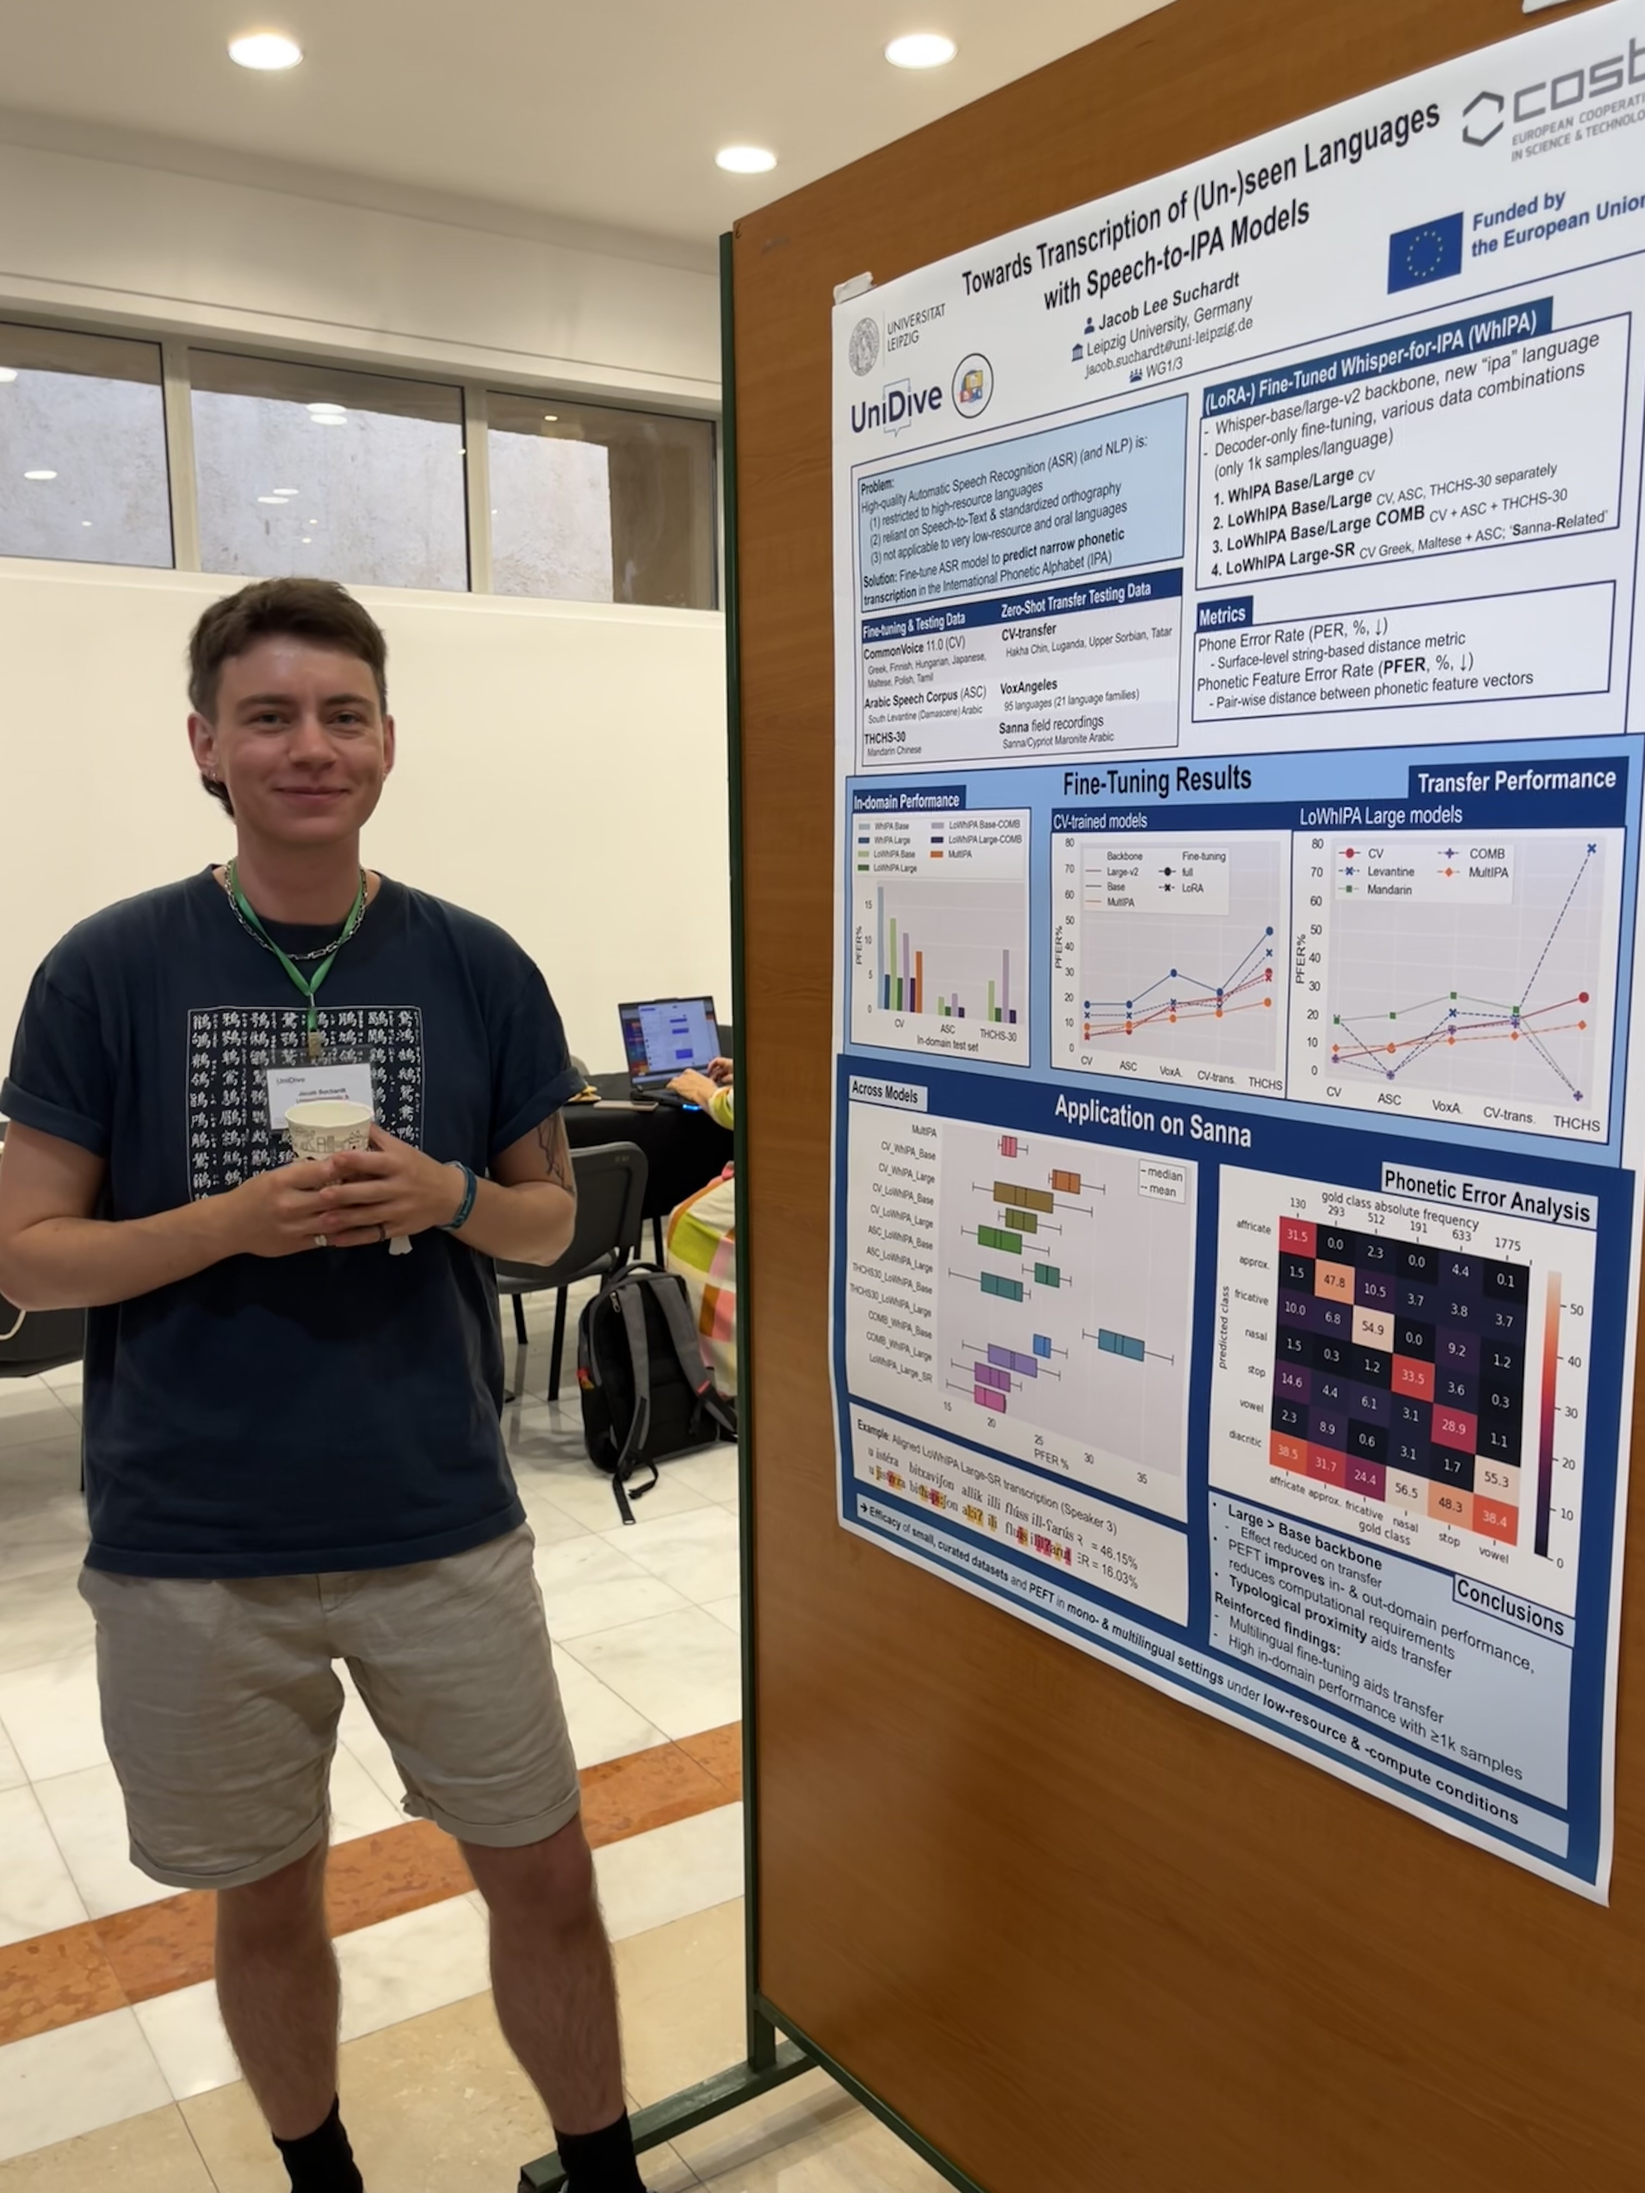
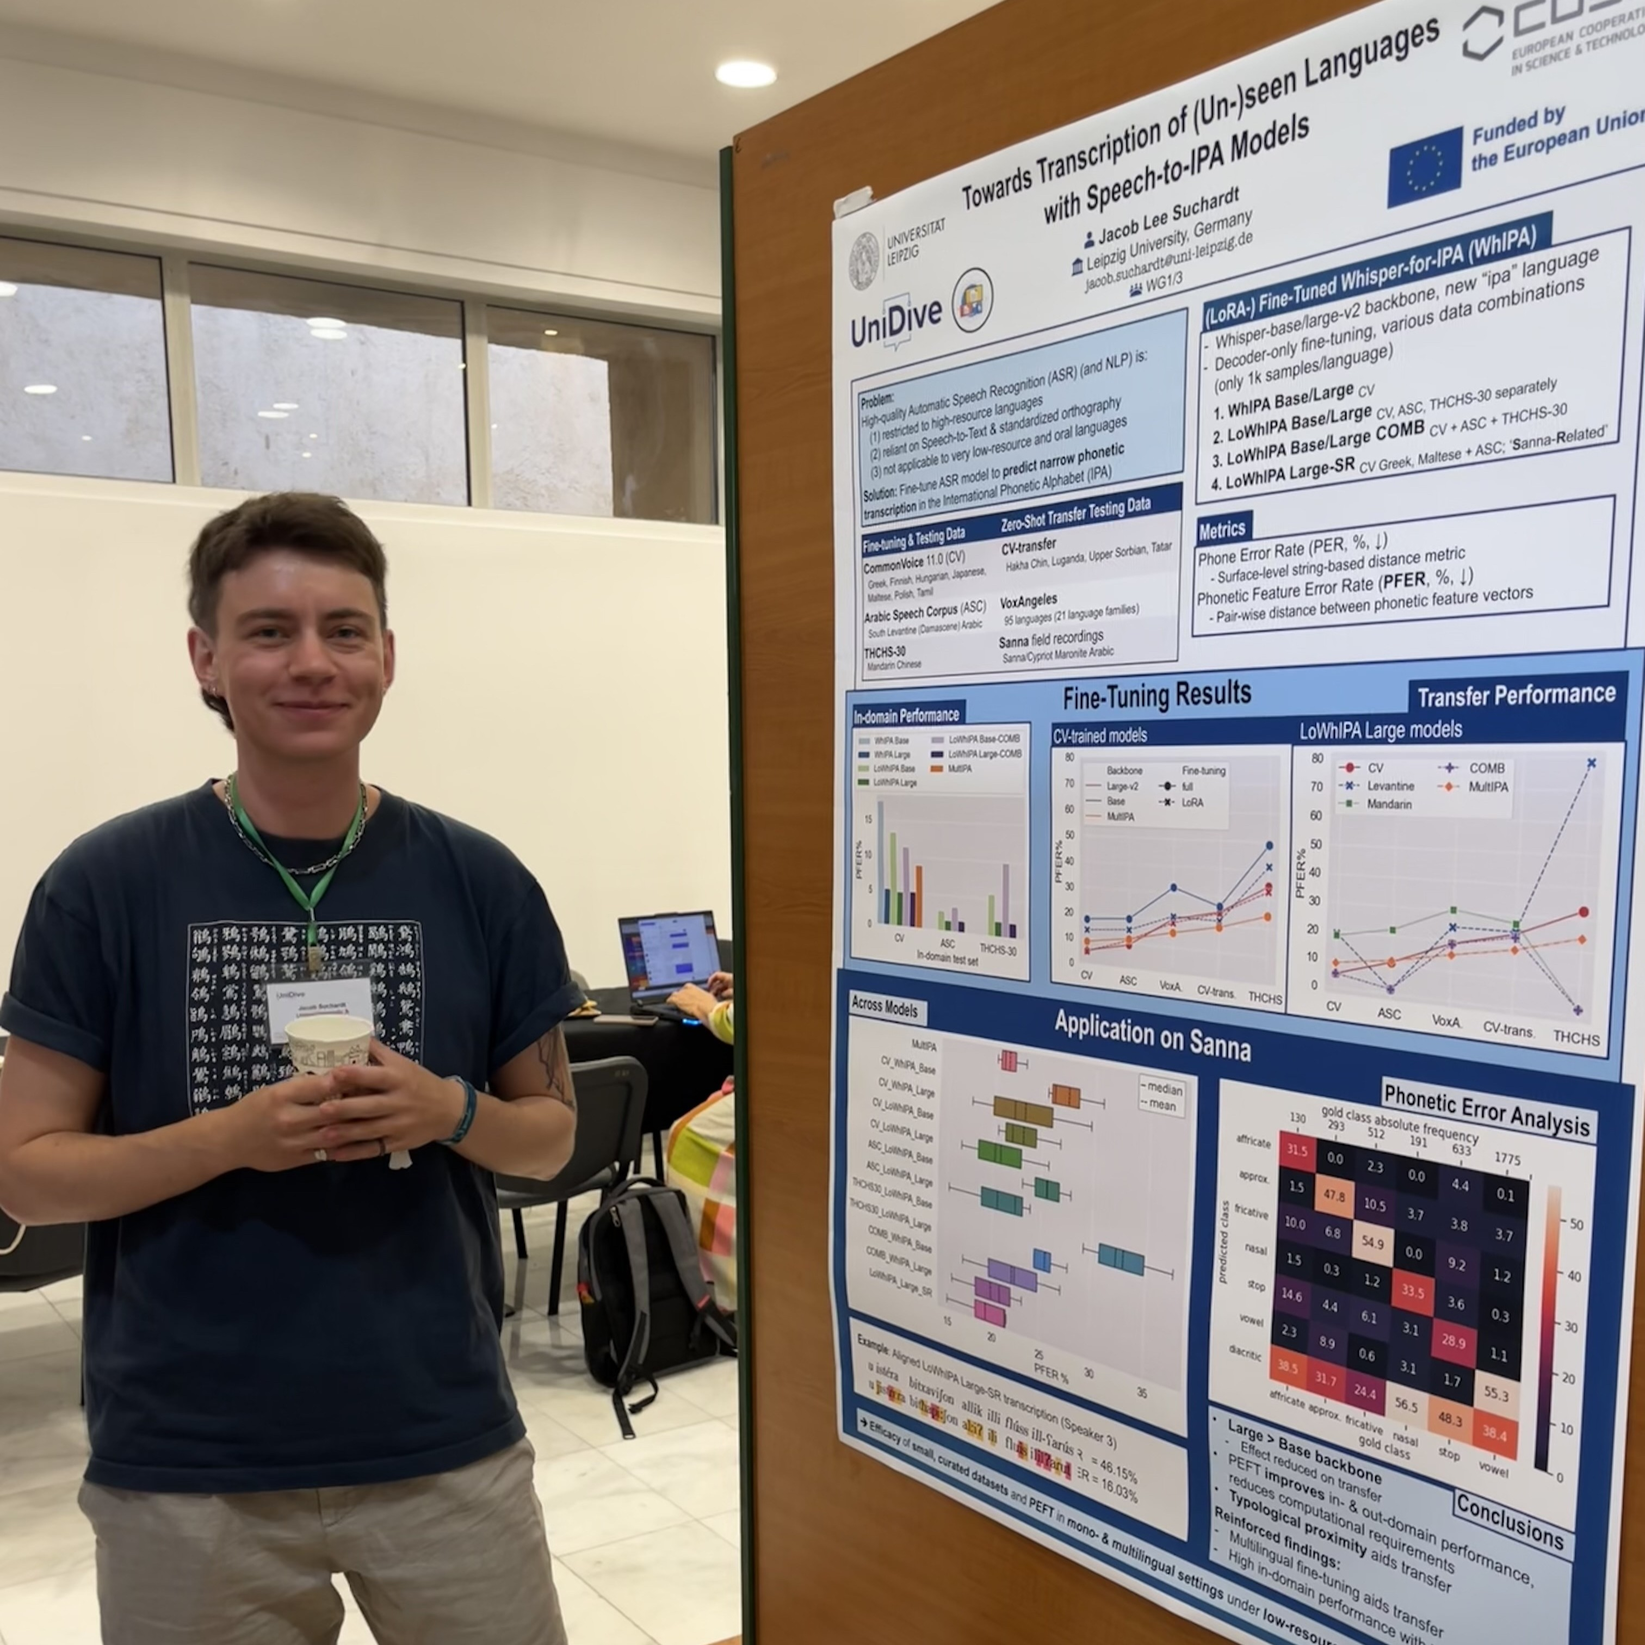
Show news pictures on the landing page and frame all photos with corner brackets

diff --git a/_includes/page-styles.html b/_includes/page-styles.html
@@ -97,6 +97,38 @@
 
   .lion-list li a:hover { opacity: 0.7; }
 
+  /* ── Photo frame ──
+     Corner brackets matching the group photo on the home page and the PI photo
+     on the team page, scaled down for thumbnails. Wrap an <img> in a div with
+     this class; the brackets sit just outside the image's edges. */
+  .lion-photo-frame {
+    position: relative;
+    display: block;
+  }
+
+  .lion-photo-frame::before,
+  .lion-photo-frame::after {
+    content: '';
+    position: absolute;
+    width: 18px;
+    height: 18px;
+    z-index: 1;
+  }
+
+  .lion-photo-frame::before {
+    top: -5px;
+    left: -5px;
+    border-top: 2px solid var(--lion-dark);
+    border-left: 2px solid var(--lion-dark);
+  }
+
+  .lion-photo-frame::after {
+    bottom: -5px;
+    right: -5px;
+    border-bottom: 2px solid var(--lion-dark);
+    border-right: 2px solid var(--lion-dark);
+  }
+
   .lion-h2 {
     font-family: var(--lion-heading-font);
     font-size: 1.6rem;

diff --git a/_pages/events.md b/_pages/events.md
@@ -189,9 +189,11 @@ permalink: /events/
       <span class="event-location">Paulinum, Room P905</span>
     </div>
     <div class="event-main">
-      <img class="event-speaker-photo"
-           src="{{ '/assets/img/speakers/anja_reusch.png' | relative_url }}"
-           alt="Anja Reusch">
+      <div class="lion-photo-frame">
+        <img class="event-speaker-photo"
+             src="{{ '/assets/img/speakers/anja_reusch.png' | relative_url }}"
+             alt="Anja Reusch">
+      </div>
       <div class="event-content">
         <h2 class="event-title">Interpretability for Improving Retrieval Models</h2>
         <p class="event-speaker">Dr. <a href="https://anja.re/" target="_blank" rel="noopener">Anja Reusch</a> — Technion</p>
@@ -219,9 +221,11 @@ permalink: /events/
       <span class="event-location">Paulinum, Room P905</span>
     </div>
     <div class="event-main">
-      <img class="event-speaker-photo"
-           src="{{ '/assets/img/speakers/bastian_bunzeck.png' | relative_url }}"
-           alt="Bastian Bunzeck">
+      <div class="lion-photo-frame">
+        <img class="event-speaker-photo"
+             src="{{ '/assets/img/speakers/bastian_bunzeck.png' | relative_url }}"
+             alt="Bastian Bunzeck">
+      </div>
       <div class="event-content">
         <h2 class="event-title">LLMs Are Not Usage-Based (Yet)</h2>
         <p class="event-speaker"><a href="https://bbunzeck.github.io/" target="_blank" rel="noopener">Bastian Bunzeck</a> — Bielefeld University</p>
@@ -247,9 +251,11 @@ permalink: /events/
       <span class="event-location">Paulinum, Room P905</span>
     </div>
     <div class="event-main">
-      <img class="event-speaker-photo"
-           src="{{ '/assets/img/speakers/david_mortensen.png' | relative_url }}"
-           alt="David R. Mortensen">
+      <div class="lion-photo-frame">
+        <img class="event-speaker-photo"
+             src="{{ '/assets/img/speakers/david_mortensen.png' | relative_url }}"
+             alt="David R. Mortensen">
+      </div>
       <div class="event-content">
         <h2 class="event-title">The Reconstruction will not be Supervised: Towards Neural Implementations of the Comparative Method</h2>
         <p class="event-speaker">Prof. <a href="https://www.lti.cs.cmu.edu/people/faculty/mortensen-david.html" target="_blank" rel="noopener">David R. Mortensen</a> — Carnegie Mellon University</p>
@@ -275,9 +281,11 @@ permalink: /events/
       <span class="event-location">Paulinum, Room P905</span>
     </div>
     <div class="event-main">
-      <img class="event-speaker-photo"
-           src="{{ '/assets/img/speakers/nina_boebel.jpg' | relative_url }}"
-           alt="Nina Böbel">
+      <div class="lion-photo-frame">
+        <img class="event-speaker-photo"
+             src="{{ '/assets/img/speakers/nina_boebel.jpg' | relative_url }}"
+             alt="Nina Böbel">
+      </div>
       <div class="event-content">
         <h2 class="event-title">Language as a (Linguistic) Network</h2>
         <p class="event-speaker">Dr. <a href="https://www.germanistik.hhu.de/abteilungen/abteilung-i-germanistische-sprachwissenschaft/univ-prof-dr-alexander-ziem/team-des-lehrstuhls-univ-prof-dr-alexander-ziem/nina-boebel-ma" target="_blank" rel="noopener">Nina Böbel</a> — Heinrich Heine University Düsseldorf</p>
@@ -303,9 +311,11 @@ permalink: /events/
       <span class="event-location">Sächsische Akademie der Wissenschaften</span>
     </div>
     <div class="event-main">
-      <img class="event-speaker-photo"
-           src="{{ '/assets/img/members/leonie_square.JPG' | relative_url }}"
-           alt="Leonie Weißweiler">
+      <div class="lion-photo-frame">
+        <img class="event-speaker-photo"
+             src="{{ '/assets/img/members/leonie_square.JPG' | relative_url }}"
+             alt="Leonie Weißweiler">
+      </div>
       <div class="event-content">
         <h2 class="event-title">Hybrid Human-LLM Corpus Construction and LLM Evaluation for the Caused-Motion Construction</h2>
         <p class="event-speaker">Jun.-Prof. Dr. <a href="https://leonieweissweiler.github.io/" target="_blank" rel="noopener">Leonie Weißweiler</a> — <a href="https://fdhl.info/veranstaltungen/digital-humanities-open-garden/opengarden2026/" target="_blank" rel="noopener">Digital Humanities Open Garden 2026</a></p>
@@ -327,9 +337,11 @@ permalink: /events/
       <span class="event-location">Paulinum, Room P702</span>
     </div>
     <div class="event-main">
-      <img class="event-speaker-photo"
-           src="{{ '/assets/img/speakers/arianna_muti.jpeg' | relative_url }}"
-           alt="Arianna Muti">
+      <div class="lion-photo-frame">
+        <img class="event-speaker-photo"
+             src="{{ '/assets/img/speakers/arianna_muti.jpeg' | relative_url }}"
+             alt="Arianna Muti">
+      </div>
       <div class="event-content">
         <h2 class="event-title">Implicit Misogyny and Classism in NLP</h2>
         <p class="event-speaker">Dr. <a href="https://milanlp.github.io/people/arianna-muti/" target="_blank" rel="noopener">Arianna Muti</a> — Bocconi University, Milan</p>
@@ -356,9 +368,11 @@ permalink: /events/
       <span class="event-location">Paulinum, Room P702</span>
     </div>
     <div class="event-main">
-      <img class="event-speaker-photo"
-           src="{{ '/assets/img/speakers/janet_liu.webp' | relative_url }}"
-           alt="Yang Janet Liu">
+      <div class="lion-photo-frame">
+        <img class="event-speaker-photo"
+             src="{{ '/assets/img/speakers/janet_liu.webp' | relative_url }}"
+             alt="Yang Janet Liu">
+      </div>
       <div class="event-content">
         <h2 class="event-title">What Is Discourse, and What Do LLMs Know About It?</h2>
         <p class="event-speaker">Prof. <a href="https://janetlauyeung.github.io/" target="_blank" rel="noopener">Yang Janet Liu</a> — University of Pittsburgh</p>

diff --git a/_pages/news.md b/_pages/news.md
@@ -10,7 +10,9 @@ permalink: /news/
 <style>
   .news-entry {
     display: grid;
-    grid-template-columns: 110px 1fr 120px;
+    /* The picture column carries the extra 1.15rem itself, so the gap before
+       the picture stays at 2rem while the date sits tight against the text. */
+    grid-template-columns: 110px 1fr calc(120px + 1.15rem);
     column-gap: 0.85rem;
     align-items: center;
     padding: 2rem 0;
@@ -34,14 +36,19 @@ permalink: /news/
   .news-entry-text { align-self: start; }
 
   /* Optional picture, cropped to a uniform square and centred against the text.
-     The extra margin makes up the gap the tight date column gives away. */
+     The frame is pushed to the right of its column so its right edge lines up
+     with the page content. */
+  .news-entry .lion-photo-frame {
+    width: 120px;
+    margin-left: auto;
+  }
+
   .news-entry-photo {
     width: 120px;
     height: 120px;
     object-fit: cover;
     object-position: center 30%;
     display: block;
-    margin-left: 1.15rem;
   }
 
   .news-entry-title {
@@ -69,8 +76,8 @@ permalink: /news/
   .news-entry-body a:hover { opacity: 0.7; }
 
   @media (max-width: 600px) {
-    .news-entry { grid-template-columns: 1fr; row-gap: 0.5rem; }
-    .news-entry-photo { margin-left: 0; }
+    .news-entry { grid-template-columns: 1fr; row-gap: 0.9rem; }
+    .news-entry .lion-photo-frame { margin-left: 0; }
   }
 </style>
 
@@ -89,10 +96,12 @@ permalink: /news/
       <p class="news-entry-body">{{ item.body }}</p>
     </div>
     {% if item.image %}
-    <img class="news-entry-photo"
-         src="{{ item.image | relative_url }}"
-         alt="{{ item.image_alt | default: item.title | strip_html }}"
-         loading="lazy">
+    <div class="lion-photo-frame">
+      <img class="news-entry-photo"
+           src="{{ item.image | relative_url }}"
+           alt="{{ item.image_alt | default: item.title | strip_html }}"
+           loading="lazy">
+    </div>
     {% endif %}
   </div>
   {% endfor %}

diff --git a/index.md b/index.md
@@ -109,13 +109,27 @@ permalink: /
     margin-bottom: 4rem;
   }
 
-  /* News preview */
+  /* News preview — text left, optional picture right, matching the News page */
   .news-item {
+    display: grid;
+    grid-template-columns: 1fr 120px;
+    column-gap: 2rem;
+    align-items: center;
     padding: 1.5rem 0;
     border-bottom: 1px solid #f0e4d4;
   }
 
   .news-item:first-of-type { border-top: 1px solid #f0e4d4; }
+
+  .news-item-text { align-self: start; }
+
+  .news-item-photo {
+    width: 120px;
+    height: 120px;
+    object-fit: cover;
+    object-position: center 30%;
+    display: block;
+  }
 
   .news-item-date {
     font-family: var(--lion-caps-font, 'Amasis MT Pro', Georgia, serif);
@@ -205,6 +219,7 @@ permalink: /
     .about-hero {
       grid-template-columns: 1fr;
     }
+    .news-item { grid-template-columns: 1fr; row-gap: 0.9rem; }
     .about-hero-logo img { max-width: 384px; }
     .funding-logo { height: 100px; }
   }
@@ -271,9 +286,19 @@ permalink: /
 
   {% for item in site.data.news limit:5 %}
   <div class="news-item">
-    <p class="news-item-date">{{ item.date }}</p>
-    <p class="news-item-title">{{ item.title }}</p>
-    <p class="news-item-body">{{ item.body }}</p>
+    <div class="news-item-text">
+      <p class="news-item-date">{{ item.date }}</p>
+      <p class="news-item-title">{{ item.title }}</p>
+      <p class="news-item-body">{{ item.body }}</p>
+    </div>
+    {% if item.image %}
+    <div class="lion-photo-frame">
+      <img class="news-item-photo"
+           src="{{ item.image | relative_url }}"
+           alt="{{ item.image_alt | default: item.title | strip_html }}"
+           loading="lazy">
+    </div>
+    {% endif %}
   </div>
   {% endfor %}
 
